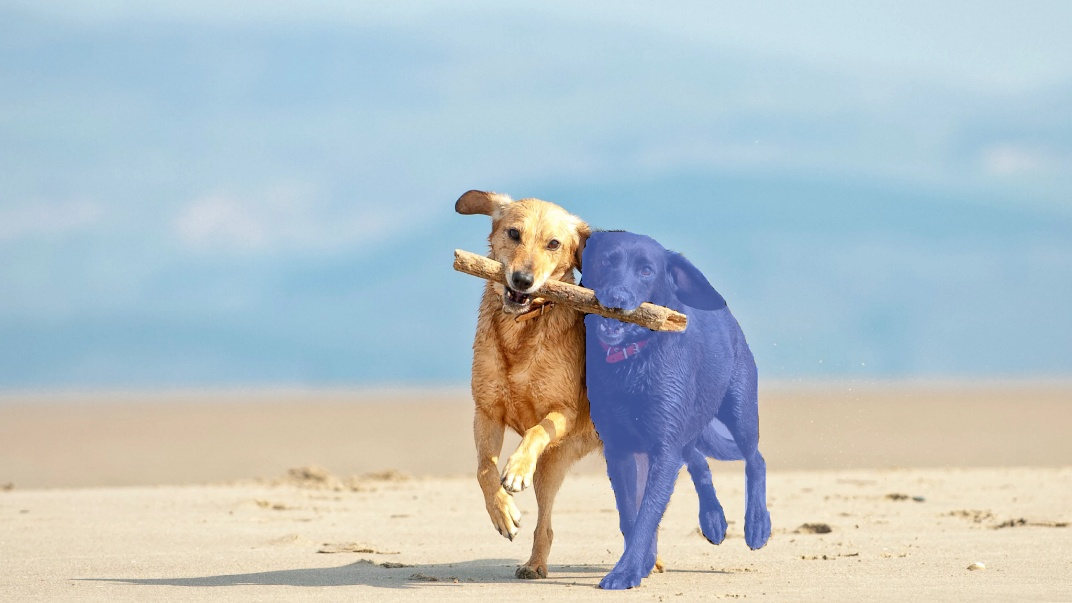
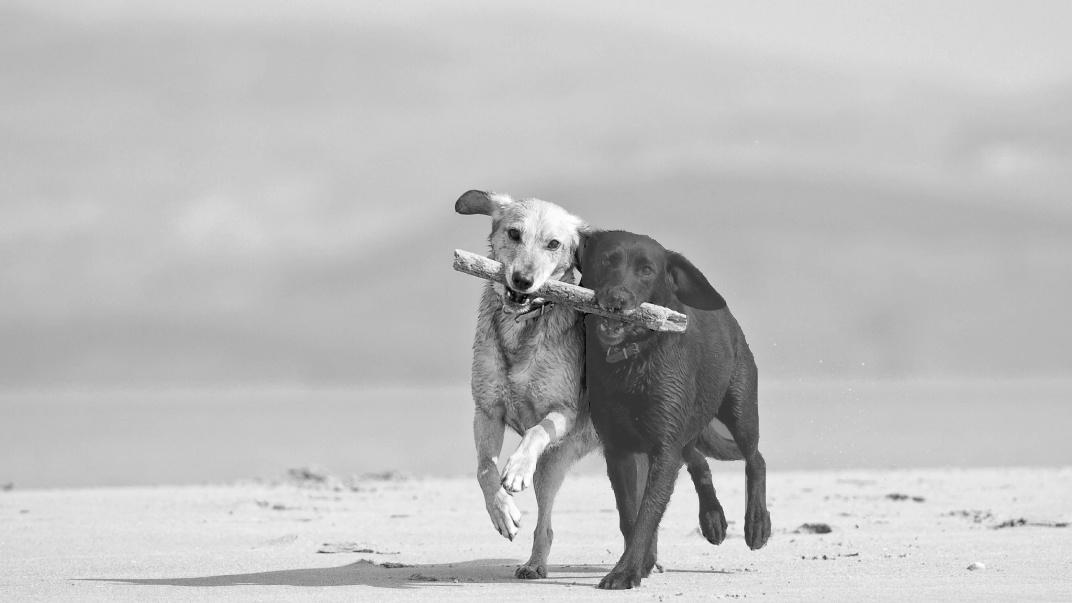
Initial Upload

diff --git a/Inpaint.py b/Inpaint.py
@@ -101,15 +101,36 @@ def send_async_generation_request(
     return response
 
 # Define paths and parameters
-image = "C:\\Users\\KIIT\\Desktop\\BITS Pilani Research Docs\\MODEL\\images\\dogs.jpg"  # Update this path to your image location
-mask_prompt = "the black dog"
-inpaint_prompt = "a dog wearing a hat"  # Your inpaint prompt
-negative_prompt = ""  # Your negative prompt
+image = "C:\\Users\\KIIT\\Desktop\\BITS Pilani Research Docs\\MODEL\\images\\cat.jpg"  # Update this path to your image location
+mask_prompt = input("Enter Mask Prompt: ")
+inpaint_prompt = input("Enter Inpaint Prompt: ")  # Your inpaint prompt
+negative_prompt = "low resolution, cartoonish, not realistic, bad quality"  # Your negative prompt
 seed = 0  # Seed value
 output_format = "webp"  # Output format: webp, jpeg, or png
 
 # Assuming you have a function Inference.create_mask() and Inference.get_predefined_input()
 mask = Inference.create_mask(Inference.get_predefined_input(image, mask_prompt))
+
+from PIL import Image
+
+def invert_and_convert_to_grayscale(image_path):
+    # Open the image
+    img = Image.open(image_path)
+    
+    # Convert the image to grayscale
+    grayscale_img = img.convert("L")
+    
+    # Invert the grayscale image
+    #inverted_img = Image.eval(grayscale_img, lambda x: 255 - x)
+    
+    # Save the inverted grayscale image
+    grayscale_img.save(image_path)
+
+# Call the function to invert, convert to grayscale, and save the mask
+invert_and_convert_to_grayscale(mask)
+
+
+
 
 host = "https://api.stability.ai/v2beta/stable-image/edit/inpaint"
 
